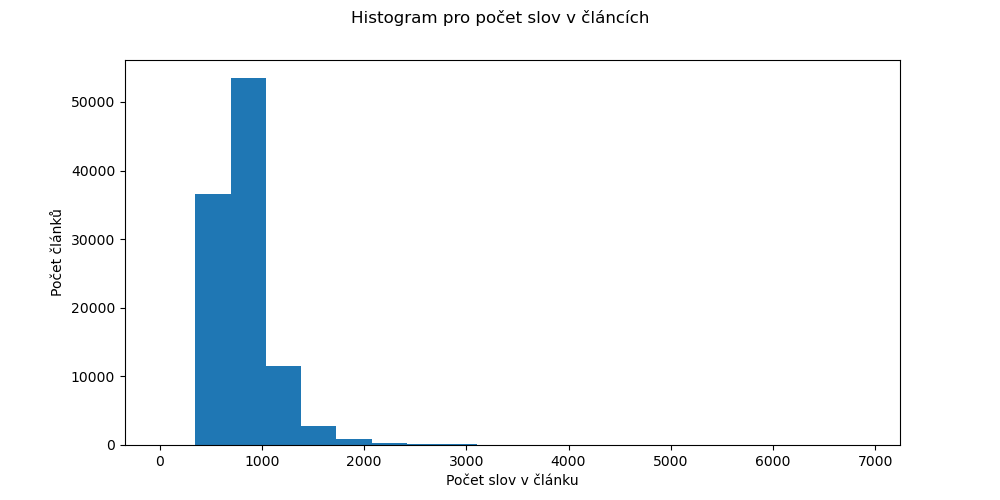
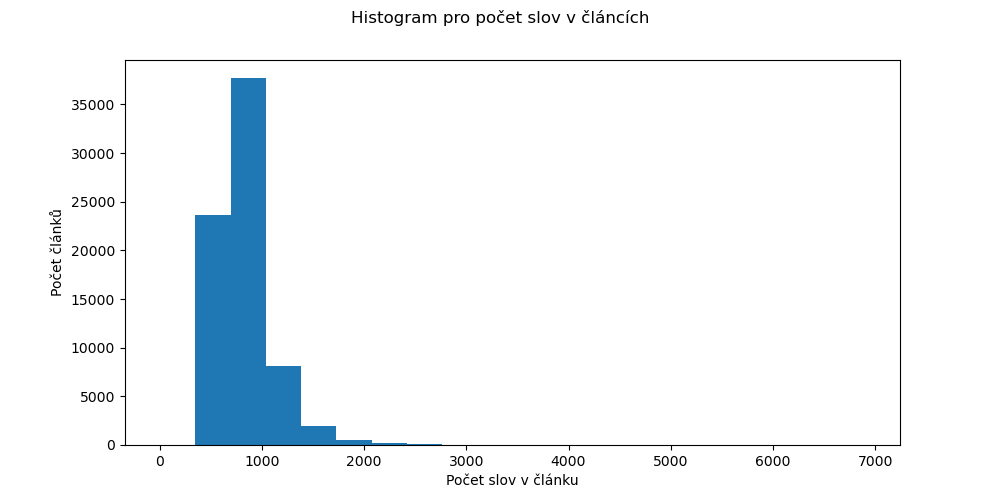
cv03

diff --git a/cv03/cv3.py b/cv03/cv3.py
@@ -155,12 +155,34 @@ def get_articles_count_by_category_2022():
     results = collection.aggregate(pipeline)
     for result in results:
         print(f"Kategorie: {result['_id']}, Počet článků: {result['count']}")
+        
+def remove_articles_older_than_2020():
+    """Odstraní články s datem publikace starším než rok 2020."""
+    # Zjistěte, kolik článků splňuje podmínku
+    count = collection.count_documents({
+        'publication_date': {
+            '$lt': '2020-01-01'
+        }
+    })
+    print(f"Počet článků, které budou odstraněny: {count}")
+
+    result = collection.delete_many({
+        'publication_date': {
+            '$lt': '2020-01-01'
+        }
+    })
+    print(f"Odstraněno {result.deleted_count} článků publikovaných před rokem 2020")
+
+
+
 
 if __name__ == '__main__':
     # Zkontrolujte, zda kolekce není prázdná
     if collection.count_documents({}) == 0:
         print("Kolekce je prázdná.")
         exit()
+    # Zavolání funkce pro odstranění článků
+    remove_articles_older_than_2020()
 
     # Shromáždění dat článků
     dates, lengths, categories, comments = gather_article_data()
